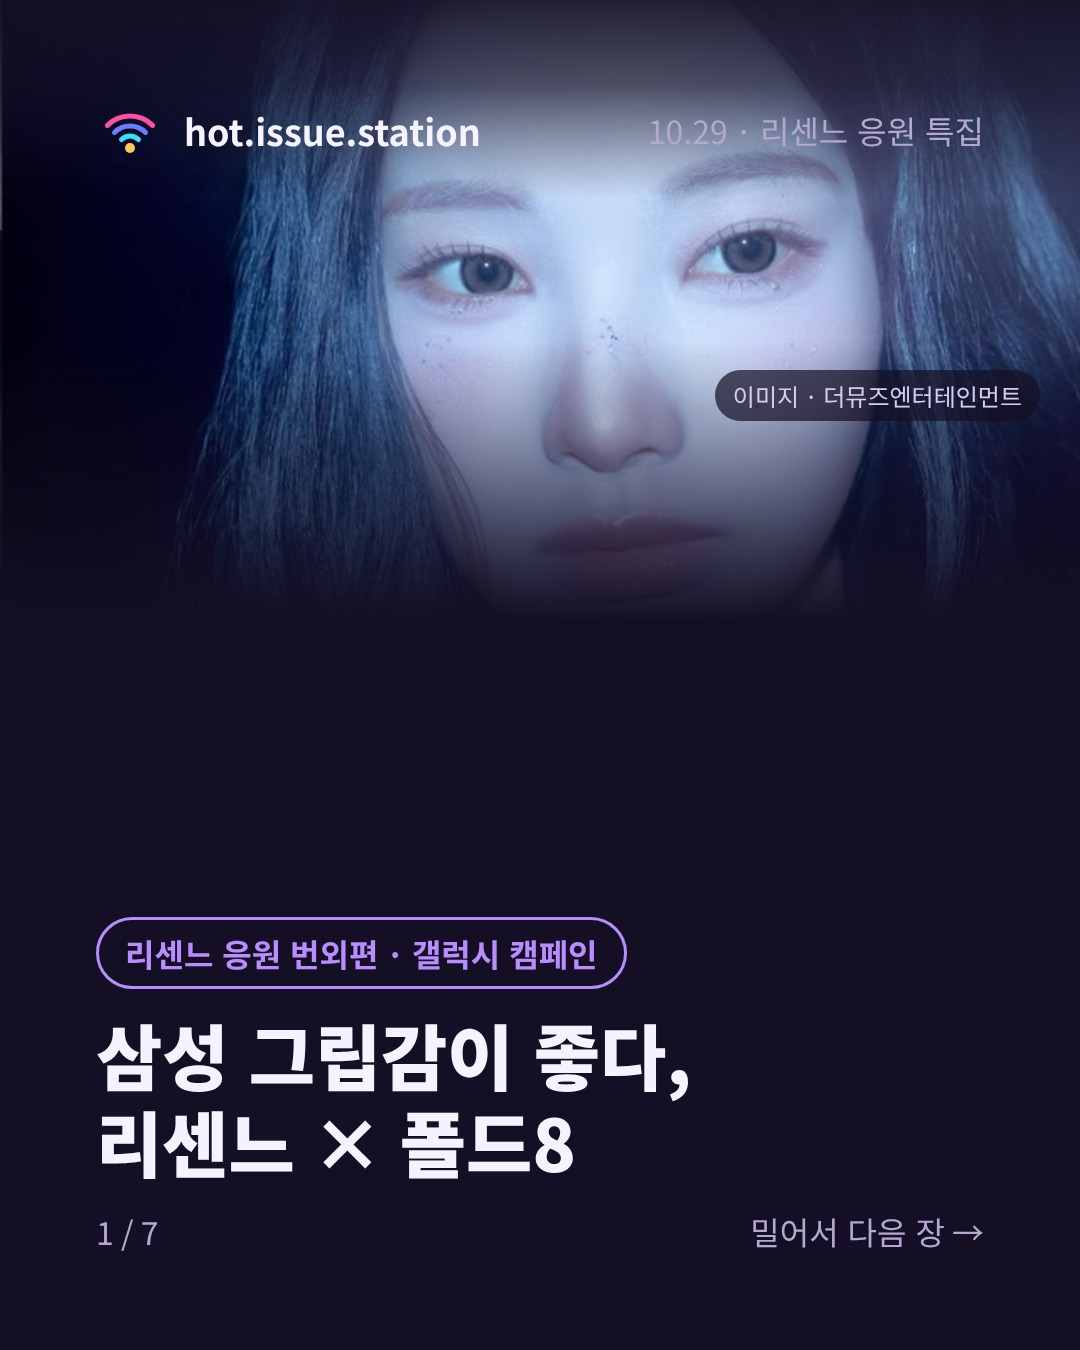
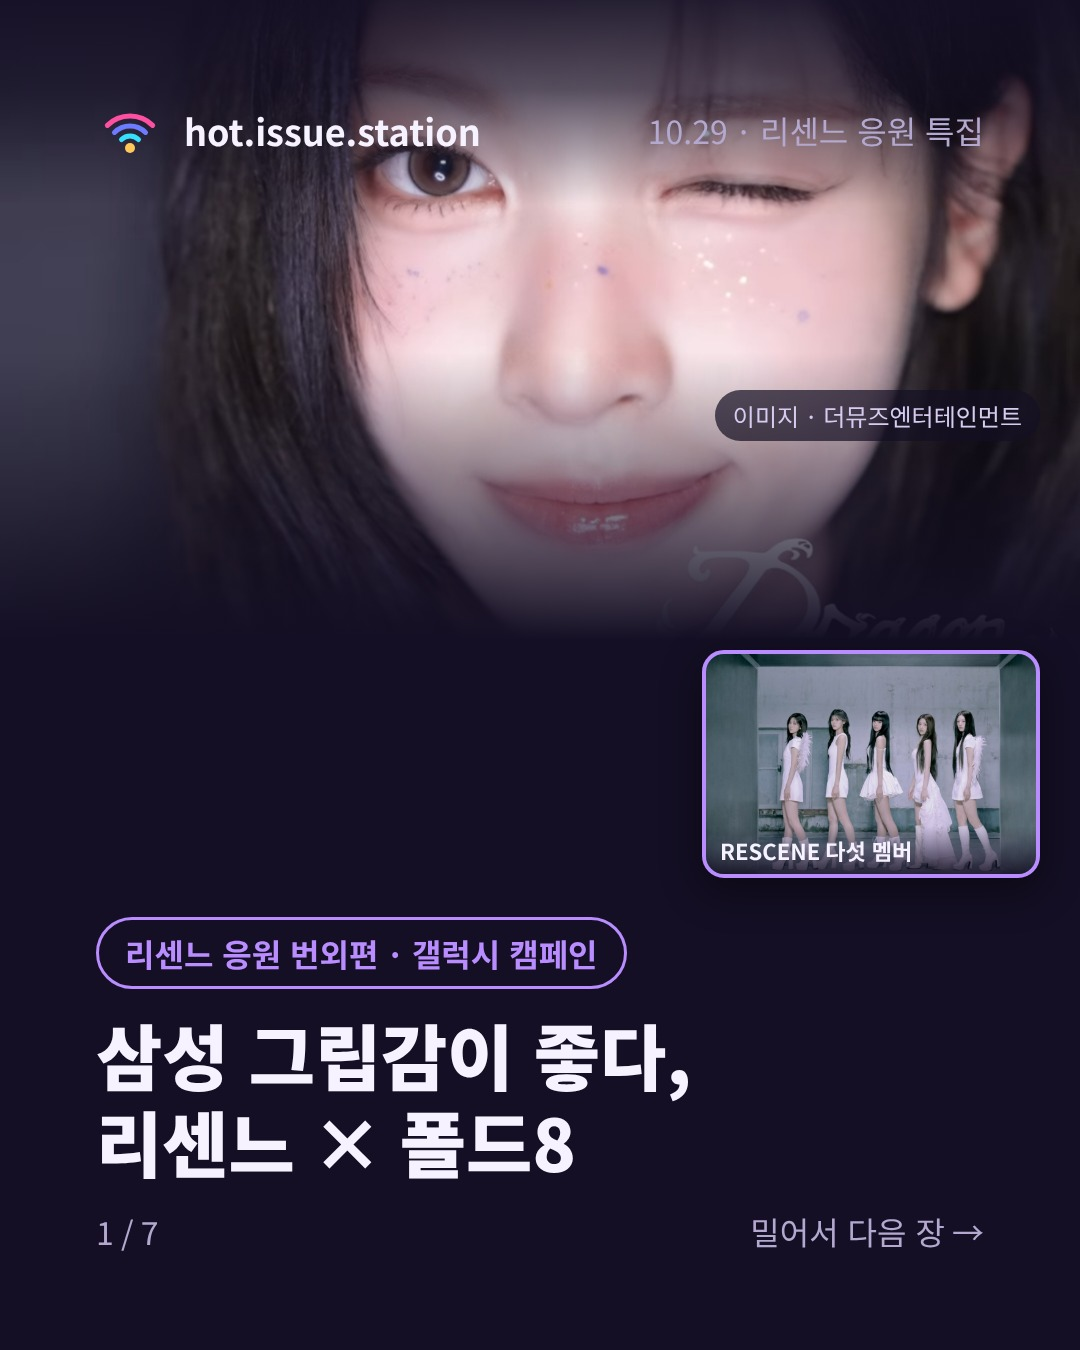
즉흥 아이디어는 카드 먼저 → 대표 확정 → 릴스 순서로 (대표 결정) / EX1 표지: 메이 사진 가운데 + 다섯 멤버 작은 칸
Claude-Session: https://claude.ai/code/session_017sdLagaiWb4rEASbYkm7nL

diff --git a/scripts/make_post.py b/scripts/make_post.py
@@ -184,19 +184,35 @@ def photo_uri(path):
     return f"data:{mt};base64," + base64.b64encode(pth.read_bytes()).decode()
 
 
+def inset_html(r, ph, reel):
+    """1장 사진형 표지 안의 작은 사진(예: 가운데는 한 멤버, 오른쪽 아래 작은 칸에 단체 사진).
+    round JSON: "photoInset": 파일 경로, "photoInsetPos": 배경 위치, "photoInsetLabel": 작은 칸 아래 글(예: "RESCENE 다섯 멤버")."""
+    if not r.get("photoInset"):
+        return ""
+    w, h = (300, 200) if reel else (330, 220)
+    right = 180 if reel else 40
+    top = ph + 10   # 사진 칸 바로 아래 오른쪽(얼굴을 가리지 않게)
+    lab = E(r.get("photoInsetLabel", ""))
+    return (f'<div style="position:absolute;right:{right}px;top:{top}px;width:{w}px;height:{h}px;border-radius:22px;overflow:hidden;'
+            f'border:4px solid {CYAN};box-shadow:0 12px 40px rgba(0,0,0,.45);background:url({photo_uri(r["photoInset"])}) {r.get("photoInsetPos", "50% 50%")}/cover no-repeat">'
+            + (f'<div style="position:absolute;left:0;right:0;bottom:0;padding:8px 14px;background:linear-gradient(0deg,rgba({BGRGB},.85),rgba({BGRGB},0));color:{INK};font-size:22px;font-weight:700">{lab}</div>' if lab else "")
+            + '</div>')
+
+
 def cover_photo(r, label):
     """1장 사진형: 위쪽에 사진(권리 있는 사진 또는 AI 생성 이미지), 아래로 남색에 녹아들고 큰 숫자 + 훅.
     round JSON: "photo": 파일 경로, "photoLabel": 사진 위 작은 표기(예: "AI 생성 이미지"), "photoPos": 배경 위치(예: "50% 40%"),
     "hookCover": 1장 전용 훅(\n 줄바꿈). 숫자 장식은 "big"을 그대로 쓴다."""
     b = r.get("big") or {}
     reel = LAYOUT["h"] > 1500
-    ph = 1000 if reel else 620
+    ph = 1000 if reel else (640 if r.get("photoInset") else 620)
     uri = photo_uri(r["photo"])
     pos = r.get("photoPos", "50% 45%")
     tag = E(r.get("photoLabel", ""))
     deco = (f'<div style="position:absolute;left:0;top:0;width:1080px;height:{ph}px;background:url({uri}) {pos}/cover no-repeat"></div>'
             f'<div style="position:absolute;left:0;top:0;width:1080px;height:{ph}px;background:linear-gradient(180deg,rgba({BGRGB},.92) 0%,rgba({BGRGB},.7) 14%,rgba({BGRGB},0) 32%,rgba({BGRGB},0) 55%,{BG} 100%)"></div>'
-            + (f'<div style="position:absolute;right:{180 if reel else 40}px;top:{ph - (300 if reel else 250)}px;padding:8px 18px;border-radius:999px;background:rgba({BGRGB},.7);color:{SOFT};font-size:24px">{tag}</div>' if tag else ""))
+            + (f'<div style="position:absolute;right:{180 if reel else 40}px;top:{ph - (300 if reel else 250)}px;padding:8px 18px;border-radius:999px;background:rgba({BGRGB},.7);color:{SOFT};font-size:24px">{tag}</div>' if tag else "")
+            + inset_html(r, ph, reel))
     n = E(b.get("number", ""))
     size = 190 if len(b.get("number", "")) <= 2 else 160
     lines = "<br>".join(accent_html(x) for x in b.get("lines", []))

diff --git a/style/style_guide.md b/style/style_guide.md
@@ -135,5 +135,6 @@
 
 ## 13. 대표 즉흥 아이디어 (대표 결정 2026-10-29)
 - 대표가 대화 중에 즉흥적으로 낸 소재는 정규 회차(AM·PM·NT·RS·HL)를 대신하지 않고 **추가 재료**로 따로 만든다. 정규 예약 작업은 평소대로 돈다.
+- **순서(대표 결정 10/29 10:44): ① 카드뉴스(릴스용 01~07·읽는 카드 r01~)를 먼저 완성해 대표에게 보여 준다 → ② 대표가 카드를 고치고 확정한다 → ③ 확정 뒤에만 릴스 영상을 만들고 재료함에 올린다.** 확정 전에는 영상·재료함 업로드를 하지 않는다.
 - 폴더·문서ID는 `<YYYYMMDD>_EX<n>`(n은 그날 몇 번째), 재료함 slotName "대표 아이디어 · 추가". 문구 규칙(기사 2곳, 민감 제외, 사실만)은 그대로.
 - 리센느 소재면 1장 분야 칸은 "리센느 응원 번외편 · <소재>"(응원 특집 편수에 넣지 않음), 색은 RS.
